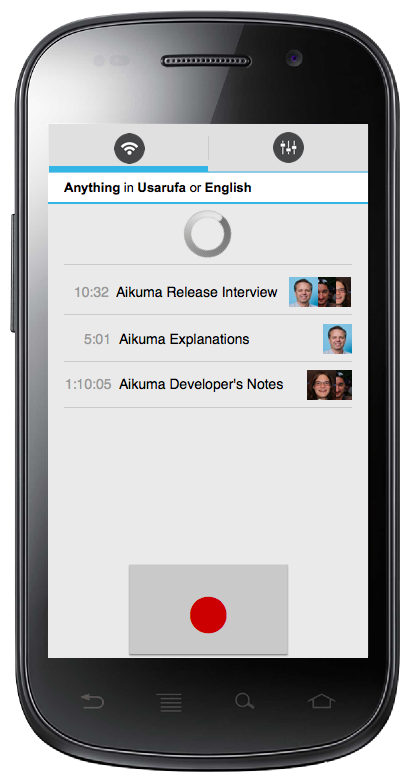
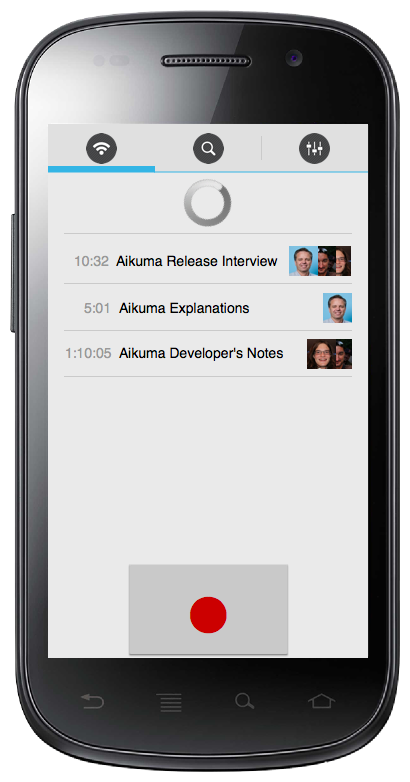
+ Latest design

Changed region(s): [[0.1463, 0.1535, 0.7024, 0.5217], [0.7024, 0.3069, 0.878, 0.5217], [0.6439, 0.1535, 0.8195, 0.2148]]

diff --git a/source/aikuma/_pencil_design.html b/source/aikuma/_pencil_design.html
@@ -1,1 +1,1 @@
-<html xmlns="http://www.w3.org/1999/xhtml"><head><meta http-equiv="Content-Type" content="text/html; charset=UTF-8" /><title>Aikuma Wireframe.ep</title></head><body><h1 id="documentTitle">Aikuma Wireframe.ep</h1><p id="documentMetadata">Exported at: Tue Feb 26 2013 13:20:55 GMT+1100 (EST)</p><div class="Page" id="main_page"><h2>Main</h2><div class="ImageContainer"><img width="410" height="782" src="pages/main.png" usemap="#map_main" /></div><map name="map_main"><area shape="rect" coords="64,361,352,408" href="#playing_v1_a_page" title="Go to page 'Playing v1 A'" /><area shape="rect" coords="64,315,352,362" href="#playing_v1_a_page" title="Go to page 'Playing v1 A'" /><area shape="rect" coords="64,268,352,315" href="#playing_v1_a_page" title="Go to page 'Playing v1 A'" /><area shape="rect" coords="64,203,352,265" href="#playing_v2_a_page" title="Go to page 'Playing v2 A'" /><area shape="rect" coords="125,560,292,659" href="#recording_page" title="Go to page 'Recording'" /><area shape="rect" coords="204,124,372,176" href="#settings_page" title="Go to page 'Settings'" /></map></div><div class="Page" id="settings_page"><h2>Settings</h2><div class="ImageContainer"><img width="410" height="782" src="pages/settings.png" usemap="#map_settings" /></div><map name="map_settings"><area shape="rect" coords="45,124,213,176" href="#main_page" title="Go to page 'Main'" /><area shape="rect" coords="45,124,213,176" href="#main_page" title="Go to page 'Main'" /></map></div><div class="Page" id="recording_page"><h2>Recording</h2><div class="ImageContainer"><img width="410" height="782" src="pages/recording.png" usemap="#map_recording" /></div><map name="map_recording"><area shape="rect" coords="125,560,292,659" href="#metadata_page" title="Go to page 'Metadata'" /><area shape="rect" coords="64,297,352,344" href="#playing_v1_a_page" title="Go to page 'Playing v1 A'" /><area shape="rect" coords="64,251,352,298" href="#playing_v1_a_page" title="Go to page 'Playing v1 A'" /><area shape="rect" coords="64,204,352,251" href="#playing_v1_a_page" title="Go to page 'Playing v1 A'" /><area shape="rect" coords="204,124,372,176" href="#settings_page" title="Go to page 'Settings'" /></map></div><div class="Page" id="metadata_page"><h2>Metadata</h2><div class="ImageContainer"><img width="410" height="782" src="pages/metadata.png" usemap="#map_metadata" /></div><map name="map_metadata"><area shape="rect" coords="204,124,372,176" href="#metadata_share_page" title="Go to page 'Metadata (Share?)'" /><area shape="rect" coords="44,124,212,176" href="#main_page" title="Go to page 'Main'" /><area shape="rect" coords="316,514,347,545" href="#add_speaker_page" title="Go to page 'Add Speaker'" /><area shape="rect" coords="66,458,354,506" href="#speaker_page" title="Go to page 'Speaker'" /></map></div><div class="Page" id="speaker_page"><h2>Speaker</h2><div class="ImageContainer"><img width="410" height="782" src="pages/speaker.png" usemap="#map_speaker" /></div><map name="map_speaker"><area shape="rect" coords="64,272,352,319" href="#playing_v1_a_page" title="Go to page 'Playing v1 A'" /><area shape="rect" coords="64,226,352,273" href="#playing_v1_a_page" title="Go to page 'Playing v1 A'" /><area shape="rect" coords="64,179,352,226" href="#playing_v1_a_page" title="Go to page 'Playing v1 A'" /><area shape="rect" coords="64,680,119,721" href="#main_page" title="Go to page 'Main'" /></map></div><div class="Page" id="add_speaker_page"><h2>Add Speaker</h2><div class="ImageContainer"><img width="410" height="782" src="pages/add_speaker.png" usemap="#map_add_speaker" /></div><map name="map_add_speaker"><area shape="rect" coords="204,124,372,176" href="#metadata_page" title="Go to page 'Metadata'" /><area shape="rect" coords="44,124,212,176" href="#metadata_page" title="Go to page 'Metadata'" /><area shape="rect" coords="316,402,347,433" href="#add_language_add_speaker_page" title="Go to page 'Add Language (Add Speaker)'" /></map></div><div class="Page" id="playing_v1_a_page"><h2>Playing v1 A</h2><div class="ImageContainer"><img width="410" height="782" src="pages/playing_v1_a.png" usemap="#map_playing_v1_a" /></div><map name="map_playing_v1_a"><area shape="rect" coords="63,284,101,322" href="#playing_v1_b_page" title="Go to page 'Playing v1 B'" /></map></div><div class="Page" id="playing_v1_b_page"><h2>Playing v1 B</h2><div class="ImageContainer"><img width="410" height="782" src="pages/playing_v1_b.png" usemap="#map_playing_v1_b" /></div><map name="map_playing_v1_b"><area shape="rect" coords="63,284,101,322" href="#playing_v1_c_page" title="Go to page 'Playing v1 C'" /></map></div><div class="Page" id="playing_v1_c_page"><h2>Playing v1 C</h2><div class="ImageContainer"><img width="410" height="782" src="pages/playing_v1_c.png" usemap="#map_playing_v1_c" /></div><map name="map_playing_v1_c"><area shape="rect" coords="112,359,176,423" href="#playing_v1_a_page" title="Go to page 'Playing v1 A'" /><area shape="rect" coords="242,359,306,423" href="#metadata_page" title="Go to page 'Metadata'" /></map></div><div class="Page" id="add_language_add_speaker_page"><h2>Add Language (Add Speaker)</h2><div class="ImageContainer"><img width="410" height="782" src="pages/add_language_add_speaker.png" usemap="#map_add_language_add_speaker" /></div><map name="map_add_language_add_speaker"><area shape="rect" coords="81,426,334,474" href="#add_speaker_page" title="Go to page 'Add Speaker'" /><area shape="rect" coords="81,475,334,523" href="#add_speaker_page" title="Go to page 'Add Speaker'" /><area shape="rect" coords="81,379,334,427" href="#add_speaker_page" title="Go to page 'Add Speaker'" /><area shape="rect" coords="81,331,334,379" href="#add_speaker_page" title="Go to page 'Add Speaker'" /><area shape="rect" coords="81,283,334,331" href="#add_speaker_page" title="Go to page 'Add Speaker'" /><area shape="rect" coords="81,235,334,283" href="#add_speaker_page" title="Go to page 'Add Speaker'" /><area shape="rect" coords="204,124,372,176" href="#metadata_page" title="Go to page 'Metadata'" /><area shape="rect" coords="44,124,212,176" href="#metadata_page" title="Go to page 'Metadata'" /></map></div><div class="Page" id="search_result_page"><h2>Search Result</h2><div class="ImageContainer"><img width="410" height="782" src="pages/search_result.png" usemap="#map_search_result" /></div><map name="map_search_result"><area shape="rect" coords="64,265,352,312" href="#playing_v1_a_page" title="Go to page 'Playing v1 A'" /><area shape="rect" coords="64,219,352,266" href="#playing_v1_a_page" title="Go to page 'Playing v1 A'" /><area shape="rect" coords="64,172,352,219" href="#playing_v1_a_page" title="Go to page 'Playing v1 A'" /><area shape="rect" coords="64,312,352,374" href="#playing_v2_a_page" title="Go to page 'Playing v2 A'" /><area shape="rect" coords="64,680,119,721" href="#main_page" title="Go to page 'Main'" /></map></div><div class="Page" id="new_search_page"><h2>New Search</h2><div class="ImageContainer"><img width="410" height="782" src="pages/new_search.png" usemap="#map_new_search" /></div><map name="map_new_search"><area shape="rect" coords="204,124,372,176" href="#search_result_page" title="Go to page 'Search Result'" /><area shape="rect" coords="44,124,212,176" href="#main_page" title="Go to page 'Main'" /></map></div><div class="Page" id="metadata_share_page"><h2>Metadata (Share?)</h2><div class="ImageContainer"><img width="410" height="782" src="pages/metadata_share.png" usemap="#map_metadata_share" /></div><map name="map_metadata_share"><area shape="rect" coords="140,436,171,467" href="#playing_v1_a_page" title="Go to page 'Playing v1 A'" /><area shape="rect" coords="105,427,212,479" href="#playing_v1_a_page" title="Go to page 'Playing v1 A'" /><area shape="rect" coords="239,436,270,467" href="#playing_v1_a_page" title="Go to page 'Playing v1 A'" /><area shape="rect" coords="204,427,311,479" href="#playing_v1_a_page" title="Go to page 'Playing v1 A'" /><area shape="rect" coords="204,124,372,176" href="#metadata_share_page" title="Go to page 'Metadata (Share?)'" /><area shape="rect" coords="44,124,212,176" href="#main_page" title="Go to page 'Main'" /><area shape="rect" coords="316,514,347,545" href="#add_speaker_page" title="Go to page 'Add Speaker'" /><area shape="rect" coords="66,458,354,506" href="#speaker_page" title="Go to page 'Speaker'" /></map></div></body></html>
+<html xmlns="http://www.w3.org/1999/xhtml"><head><meta http-equiv="Content-Type" content="text/html; charset=UTF-8" /><title>Aikuma Wireframe.ep</title></head><body><h1 id="documentTitle">Aikuma Wireframe.ep</h1><p id="documentMetadata">Exported at: Tue Feb 26 2013 17:09:52 GMT+1100 (EST)</p><div class="Page" id="main_page"><h2>Main</h2><div class="ImageContainer"><img width="410" height="782" src="pages/main.png" usemap="#map_main" /></div><map name="map_main"><area shape="rect" coords="64,237,352,284" href="#playing_page" title="Go to page 'Playing'" /><area shape="rect" coords="150,124,265,176" href="#search_result_page" title="Go to page 'Search Result'" /><area shape="rect" coords="257,124,372,176" href="#settings_page" title="Go to page 'Settings'" /><area shape="rect" coords="125,560,292,659" href="#recording_page" title="Go to page 'Recording'" /></map></div><div class="Page" id="settings_page"><h2>Settings</h2><div class="ImageContainer"><img width="410" height="782" src="pages/settings.png" usemap="#map_settings" /></div><map name="map_settings"><area shape="rect" coords="44,124,159,176" href="#main_page" title="Go to page 'Main'" /><area shape="rect" coords="150,124,265,176" href="#search_result_page" title="Go to page 'Search Result'" /></map></div><div class="Page" id="recording_page"><h2>Recording</h2><div class="ImageContainer"><img width="410" height="782" src="pages/recording.png" usemap="#map_recording" /></div><map name="map_recording"><area shape="rect" coords="150,124,265,176" href="#search_result_page" title="Go to page 'Search Result'" /><area shape="rect" coords="257,124,372,176" href="#settings_page" title="Go to page 'Settings'" /><area shape="rect" coords="125,560,292,659" href="#metadata_page" title="Go to page 'Metadata'" /><area shape="rect" coords="64,265,352,312" href="#playing_comment_selected_page" title="Go to page 'Playing Comment Selected'" /><area shape="rect" coords="64,219,352,266" href="#playing_comment_selected_page" title="Go to page 'Playing Comment Selected'" /><area shape="rect" coords="64,172,352,219" href="#playing_comment_selected_page" title="Go to page 'Playing Comment Selected'" /></map></div><div class="Page" id="metadata_page"><h2>Metadata</h2><div class="ImageContainer"><img width="410" height="782" src="pages/metadata.png" usemap="#map_metadata" /></div><map name="map_metadata"><area shape="rect" coords="204,124,372,176" href="#metadata_share_page" title="Go to page 'Metadata (Share?)'" /><area shape="rect" coords="44,124,212,176" href="#main_page" title="Go to page 'Main'" /><area shape="rect" coords="316,514,347,545" href="#add_speaker_page" title="Go to page 'Add Speaker'" /><area shape="rect" coords="66,505,353,553" href="#add_speaker_page" title="Go to page 'Add Speaker'" /></map></div><div class="Page" id="add_speaker_page"><h2>Add Speaker</h2><div class="ImageContainer"><img width="410" height="782" src="pages/add_speaker.png" usemap="#map_add_speaker" /></div><map name="map_add_speaker"><area shape="rect" coords="204,124,372,176" href="#metadata_page" title="Go to page 'Metadata'" /><area shape="rect" coords="44,124,212,176" href="#metadata_page" title="Go to page 'Metadata'" /><area shape="rect" coords="316,402,347,433" href="#add_language_add_speaker_page" title="Go to page 'Add Language (Add Speaker)'" /><area shape="rect" coords="66,393,353,441" href="#add_language_add_speaker_page" title="Go to page 'Add Language (Add Speaker)'" /></map></div><div class="Page" id="playing_page"><h2>Playing</h2><div class="ImageContainer"><img width="410" height="782" src="pages/playing.png" usemap="#map_playing" /></div><map name="map_playing"><area shape="rect" coords="168,250,206,288" href="#playing_comment_selected_page" title="Go to page 'Playing Comment Selected'" /><area shape="rect" coords="63,250,101,288" href="#playing_recording_comment_page" title="Go to page 'Playing Recording Comment'" /></map></div><div class="Page" id="playing_comment_selected_page"><h2>Playing Comment Selected</h2><div class="ImageContainer"><img width="410" height="782" src="pages/playing_comment_selected.png" usemap="#map_playing_comment_selected" /></div><map name="map_playing_comment_selected"><area shape="rect" coords="63,250,101,288" href="#playing_recording_comment_page" title="Go to page 'Playing Recording Comment'" /></map></div><div class="Page" id="playing_recording_comment_page"><h2>Playing Recording Comment</h2><div class="ImageContainer"><img width="410" height="782" src="pages/playing_recording_comment.png" usemap="#map_playing_recording_comment" /></div><map name="map_playing_recording_comment"><area shape="rect" coords="63,250,101,288" href="#playing_comment_ok_page" title="Go to page 'Playing Comment Ok?'" /></map></div><div class="Page" id="playing_comment_ok_page"><h2>Playing Comment Ok?</h2><div class="ImageContainer"><img width="410" height="782" src="pages/playing_comment_ok.png" usemap="#map_playing_comment_ok" /></div><map name="map_playing_comment_ok"><area shape="rect" coords="112,359,176,423" href="#playing_comment_selected_page" title="Go to page 'Playing Comment Selected'" /><area shape="rect" coords="242,359,306,423" href="#metadata_page" title="Go to page 'Metadata'" /></map></div><div class="Page" id="add_language_add_speaker_page"><h2>Add Language (Add Speaker)</h2><div class="ImageContainer"><img width="410" height="782" src="pages/add_language_add_speaker.png" usemap="#map_add_language_add_speaker" /></div><map name="map_add_language_add_speaker"><area shape="rect" coords="81,218,334,266" href="#add_speaker_page" title="Go to page 'Add Speaker'" /><area shape="rect" coords="81,475,334,523" href="#add_speaker_page" title="Go to page 'Add Speaker'" /><area shape="rect" coords="81,427,334,475" href="#add_speaker_page" title="Go to page 'Add Speaker'" /><area shape="rect" coords="81,379,334,427" href="#add_speaker_page" title="Go to page 'Add Speaker'" /><area shape="rect" coords="81,331,334,379" href="#add_speaker_page" title="Go to page 'Add Speaker'" /><area shape="rect" coords="204,124,372,176" href="#metadata_page" title="Go to page 'Metadata'" /><area shape="rect" coords="44,124,212,176" href="#metadata_page" title="Go to page 'Metadata'" /></map></div><div class="Page" id="search_result_page"><h2>Search Result</h2><div class="ImageContainer"><img width="410" height="782" src="pages/search_result.png" usemap="#map_search_result" /></div><map name="map_search_result"><area shape="rect" coords="64,221,352,268" href="#playing_page" title="Go to page 'Playing'" /><area shape="rect" coords="321,181,352,212" href="#new_search_page" title="Go to page 'New Search'" /><area shape="rect" coords="44,124,159,176" href="#main_page" title="Go to page 'Main'" /><area shape="rect" coords="257,124,372,176" href="#settings_page" title="Go to page 'Settings'" /><area shape="rect" coords="64,680,119,721" href="#main_page" title="Go to page 'Main'" /></map></div><div class="Page" id="new_search_page"><h2>New Search</h2><div class="ImageContainer"><img width="410" height="782" src="pages/new_search.png" usemap="#map_new_search" /></div><map name="map_new_search"><area shape="rect" coords="204,124,372,176" href="#search_result_page" title="Go to page 'Search Result'" /><area shape="rect" coords="44,124,212,176" href="#search_result_page" title="Go to page 'Search Result'" /></map></div><div class="Page" id="metadata_share_page"><h2>Metadata (Share?)</h2><div class="ImageContainer"><img width="410" height="782" src="pages/metadata_share.png" usemap="#map_metadata_share" /></div><map name="map_metadata_share"><area shape="rect" coords="204,124,372,176" href="#main_page" title="Go to page 'Main'" /><area shape="rect" coords="44,124,212,176" href="#main_page" title="Go to page 'Main'" /><area shape="rect" coords="316,514,347,545" href="#add_speaker_page" title="Go to page 'Add Speaker'" /><area shape="rect" coords="66,458,354,506" href="#speaker_page" title="Go to page 'Speaker'" /></map></div></body></html>

diff --git a/source/aikuma/download.html.md b/source/aikuma/download.html.md
@@ -5,8 +5,8 @@ css: aikuma
 
 ## Download
 
-The application is available on [Google Play](http://play.google.com):
+The Android application is available on [Google Play](http://play.google.com):
 
-* [Download & Install Aikuma](http://play.google.com/store/apps/details?id=au.edu.unimelb.aikuma&feature=search_result#?t=W251bGwsMSwyLDEsImF1LmVkdS51bmltZWxiLmFpa3VtYSJd)
+* [Download & Install Aikuma for Android](http://play.google.com/store/apps/details?id=au.edu.unimelb.aikuma&feature=search_result#?t=W251bGwsMSwyLDEsImF1LmVkdS51bmltZWxiLmFpa3VtYSJd)
 
 Please report any issues with it on the [Aikuma issues page](http://github.com/langtech/aikuma/issues).
